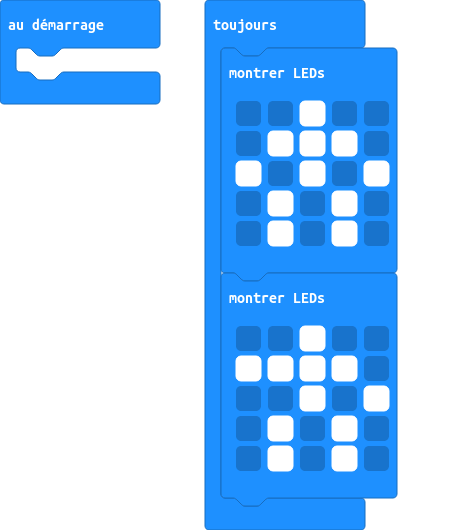
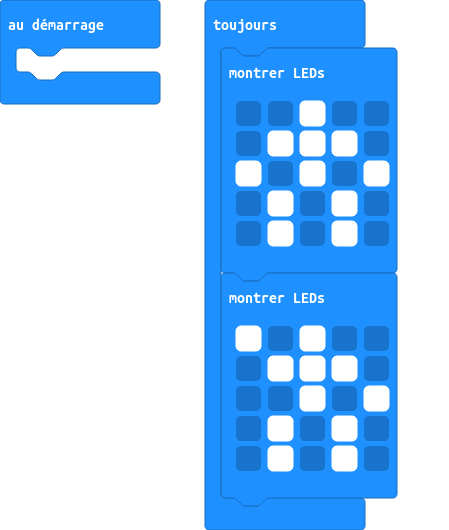
Restaurer '26/11/2020 à 09:29:55 Ajout d'une image'

Changed region(s): [[0.4989, 0.6038, 0.5924, 0.7245]]

diff --git a/main.ts b/main.ts
@@ -7,8 +7,8 @@ basic.forever(function () {
         . # . # .
         `)
     basic.showLeds(`
-        . . # . .
-        # # # # .
+        # . # . .
+        . # # # .
         . . # . #
         . # . # .
         . # . # .
